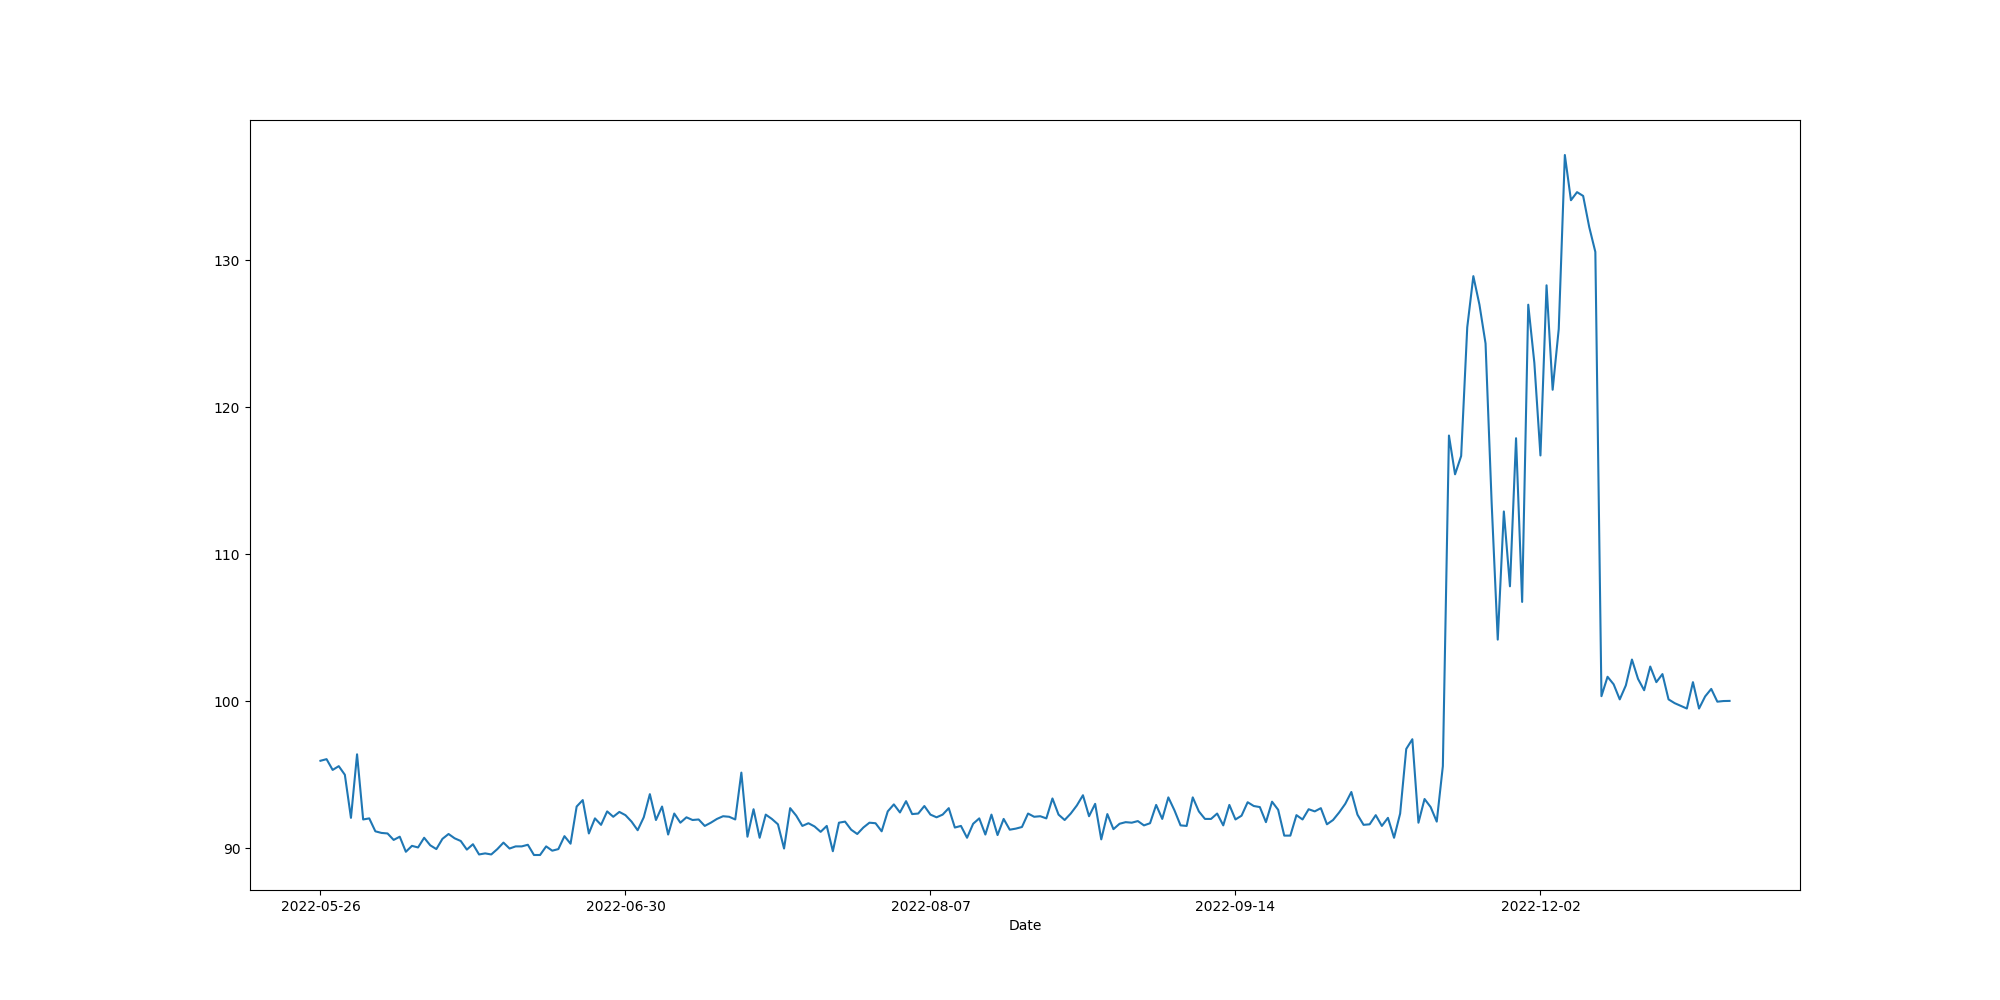
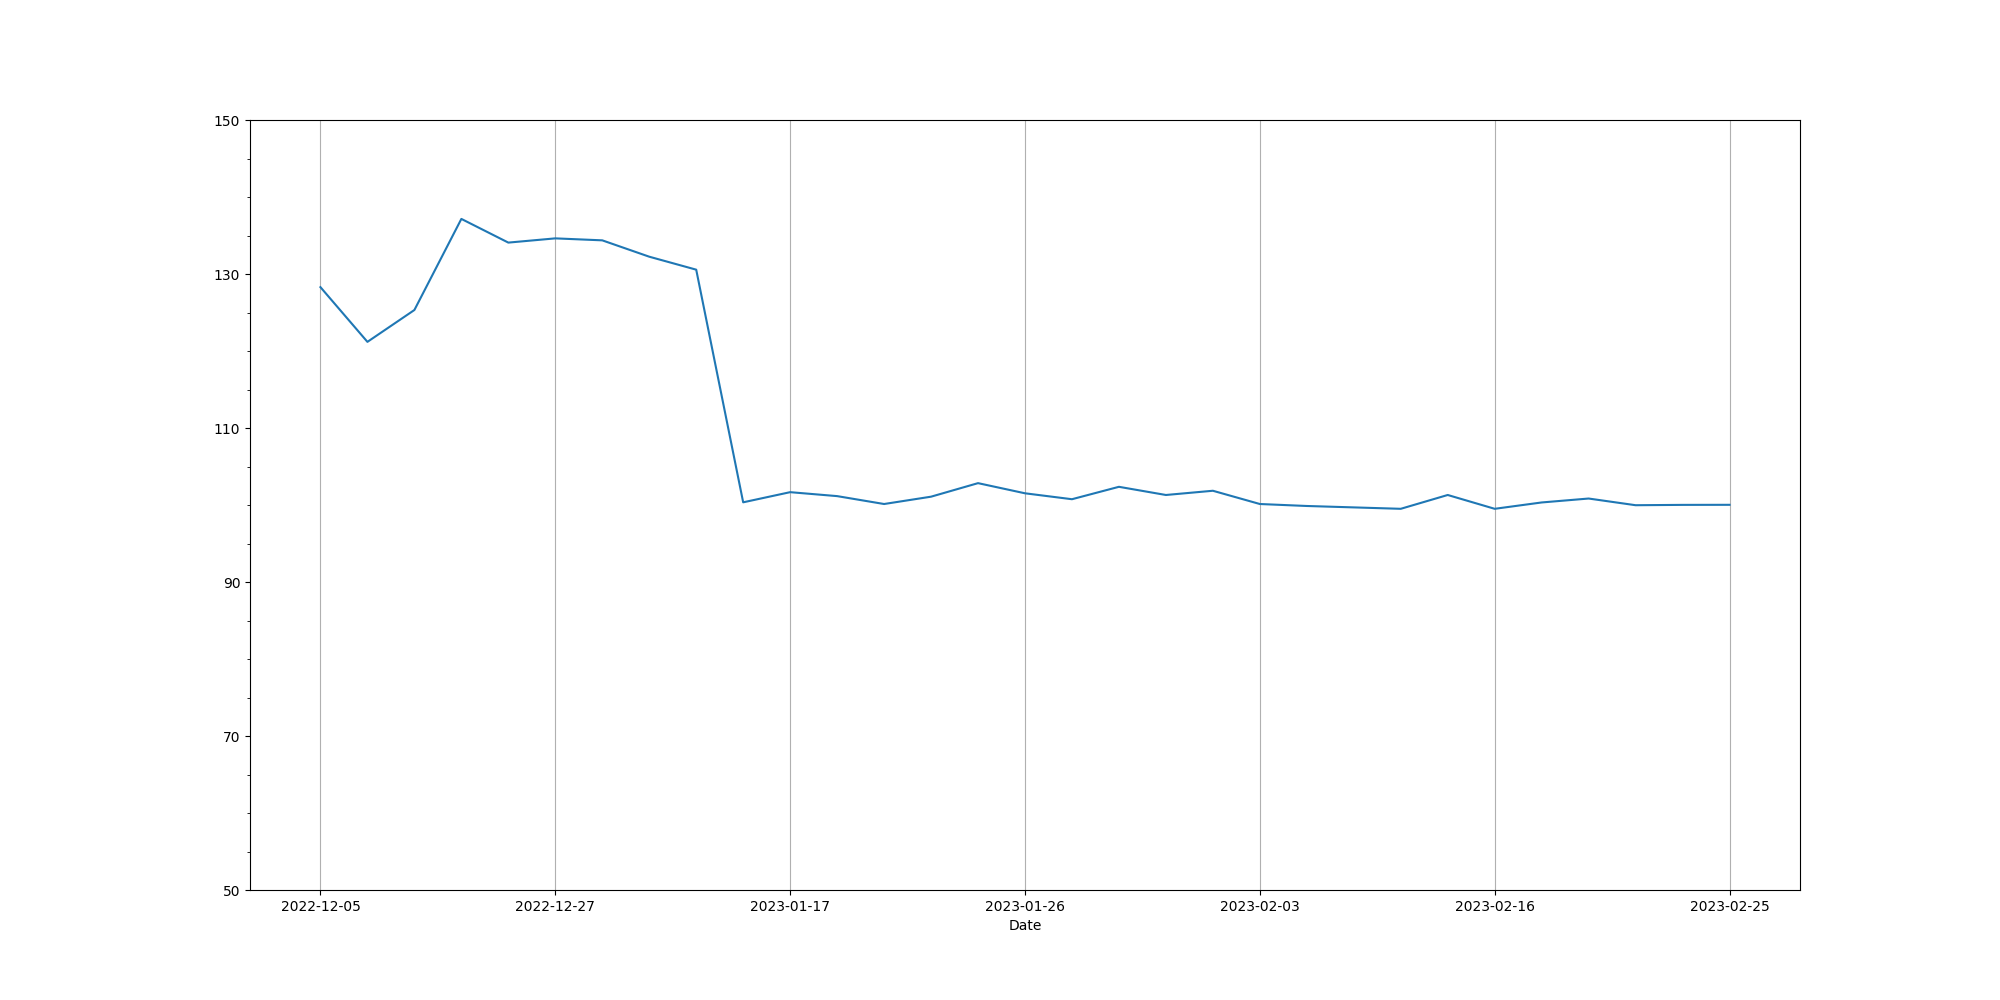
dataframe plot

diff --git a/Techs/data-science/pandas/plot/dataframe_plot.py b/Techs/data-science/pandas/plot/dataframe_plot.py
@@ -1,24 +1,29 @@
-import numpy as np
 import pandas as pd
-import matplotlib
-import matplotlib.pyplot as plt
+import numpy as np
 
-a = np.random.standard_normal((9, 4)).round(6)
-df = pd.DataFrame(a)
+df = pd.read_csv("ex_plot.csv", index_col=0)
+df = df.sort_values(by=['Date'])
+df = df.set_index('Date')
+composite_index_df = df['C&P Composite Index'].tail(31)
+#print(df)
+#fig = df['C&P Composite Index'].plot(figsize=(20, 10)).get_figure()
+ax = composite_index_df.plot(figsize=(20, 10))
 
-df.columns = ['No1', 'No2', 'No3', 'No4'] # 更改列名。
-dates = pd.date_range('2015-1-1', periods=9, freq='M')
-df.index = dates
-print(df)
+# Y轴的grid：Major ticks every 20, minor ticks every 5
+major_ticks = np.arange(50, 151, 20)
+minor_ticks = np.arange(50, 151, 5)
+ax.set_yticks(major_ticks)
+ax.set_yticks(minor_ticks, minor=True)
 
-df.describe()
+# X轴的grid：
+x_ticks = np.arange(0, 31, 5)
+x_ticks_labels = [list(composite_index_df.index)[x] for x in x_ticks]
+ax.set_xticks(x_ticks)
+ax.set_xticklabels(x_ticks_labels)
 
-#%matplotlib inline # IPYTHON里面的魔法函数，此处不可用。
-df.cumsum().plot(lw=2.0)
+ax.grid(which='both')
+ax.grid(which='minor', alpha=0.2)
+ax.grid(which='major', alpha=0.5)
 
-# 为No1列绘图
-df['No1'].cumsum().plot(style='r', lw=2.)
-plt.xlabel('date')
-plt.ylabel('value')
-
-plt.show()
+fig = ax.get_figure()
+fig.savefig('ex_plot.png')

diff --git a/Techs/data-science/pandas/plot/README.md b/Techs/data-science/pandas/plot/README.md
@@ -24,6 +24,25 @@ DataFrame.plot(x=None, y=None, kind='line', ax=None, subplots=False, sharex=None
 等单独的子函数。
 
 
+## “plt”, “ax”和“fig”
+
+“plt”来自于`import matplotlib.pyplot as plt`，它就是`matplotlib`模块中`pyplot`的简称。
+
+在现实生活中，绘制图形时通常是在图形的载体（比如一张纸）中绘制具体的图形，那么“fig”就是幕布，相当于纸张，而`ax`则是图形对应的坐标轴。
+
+明白了它们之间的大致区别之后，就能够理解下面两句代码的含义了：
+
+```
+fig = df['C&P Composite Index'].plot(figsize=(20, 10)).get_figure()
+ax  = df['C&P Composite Index'].plot(figsize=(20, 10)) 
+```
+
+参考：
+
+- [What Are the “plt” and “ax” in Matplotlib Exactly?](https://towardsdatascience.com/what-are-the-plt-and-ax-in-matplotlib-exactly-d2cf4bf164a9)
+- [Matplotlib中的“plt”和“ax”到底是什么?](https://zhuanlan.zhihu.com/p/221861683)
+
+
 ## 设置第二坐标
 
 ```
@@ -57,11 +76,39 @@ fig.savefig('test.png')
 使用其中的`title`参数。
 
 
-## Matplotlib中的“plt”和“ax”到底是什么?
+
+
+## 设置 grid
+
+可以对网格线进行定义，比如最基本的样式、间隔。
+
+```
+# Major ticks every 20, minor ticks every 5
+major_ticks = np.arange(0, 101, 20)
+minor_ticks = np.arange(0, 101, 5)
+
+ax.set_xticks(major_ticks)
+ax.set_xticks(minor_ticks, minor=True)
+
+# And a corresponding grid
+ax.grid(which='both')
+
+# Or if you want different settings for the grids:
+ax.grid(which='minor', alpha=0.2)
+ax.grid(which='major', alpha=0.5)
+```
+
+测试的时候上面的代码在一个环境里面可行，但是另一个环境里面设置的major的网格线可以正常显示，但是minor显示不出来，之后用在[Pandas: How to display minor grid lines on x-axis in pd.DataFrame.plot()](https://stackoverflow.com/questions/20616754/pandas-how-to-display-minor-grid-lines-on-x-axis-in-pd-dataframe-plot)看到的如下代码才能正常显示：
+
+```
+ax.grid('on', which='minor', alpha=0.2)
+ax.grid('on', which='major', alpha=0.5)
+```
+
+这是因为最新的版本里面配置网格线的`Axes.grid()`函数新增了`visible=None`参数，默认不展示。
 
 参考：
 
-- [What Are the “plt” and “ax” in Matplotlib Exactly?](https://towardsdatascience.com/what-are-the-plt-and-ax-in-matplotlib-exactly-d2cf4bf164a9)
-- [Matplotlib中的“plt”和“ax”到底是什么?](https://zhuanlan.zhihu.com/p/221861683)
-
-
+- [Change grid interval and specify tick labels in Matplotlib](https://stackoverflow.com/questions/24943991/change-grid-interval-and-specify-tick-labels-in-matplotlib)
+- [Pandas: How to display minor grid lines on x-axis in pd.DataFrame.plot()](https://stackoverflow.com/questions/20616754/pandas-how-to-display-minor-grid-lines-on-x-axis-in-pd-dataframe-plot)
+- [matplotlib.axes.Axes.grid](https://matplotlib.org/stable/api/_as_gen/matplotlib.axes.Axes.grid.html#matplotlib-axes-axes-grid)

diff --git a/Techs/data-science/pandas/plot/x_axis/README.md b/Techs/data-science/pandas/plot/x_axis/README.md
@@ -1,6 +1,25 @@
-## x轴显示问题
+## 如何调整横坐标样式以显示更多项目
 
-### 使用df.plot函数只显示x lable但是不显示ticks
+如下图，怎么调整横坐标标签显示样式，支持更多的显示。
+
+![](low_x_item_number.png)
+
+```
+asset_plot = self.asset_df.plot()
+asset_plot.set_xticks(range(len(self.asset_df.index)))
+asset_plot.set_xticklabels(self.asset_df.index, rotation=90)
+plt.show()
+```
+
+通过`set_xticks`设定所有的tick数，另外通过`set_xticklabels`设定标签的显示样式。
+
+参考：
+
+- [How to plot a pandas multiindex dataFrame with all xticks](https://stackoverflow.com/questions/21281322/how-to-plot-a-pandas-multiindex-dataframe-with-all-xticks)
+- [Matplotlib:: Not Showing all x-axis data frame variable](https://stackoverflow.com/questions/32572419/matplotlib-not-showing-all-x-axis-data-frame-variable?rq=1)
+
+
+## 使用df.plot函数只显示x lable但是不显示ticks
 
 *注：这个例子是在聚宽上进行的，我在本地测试没有这个问题。*
 
@@ -74,22 +93,3 @@ plt.subplots_adjust(wspace=0.6, hspace=0.6, left=0.1, bottom=0.22, right=0.96, t
 ](https://stackoverflow.com/questions/29767386/xlabel-and-ylabel-out-of-plot-region-cannot-show-completely-in-the-figure)
 - [How do you change the size of figures drawn with matplotlib?](https://stackoverflow.com/questions/332289/how-do-you-change-the-size-of-figures-drawn-with-matplotlib)
 
-### 如何调整横坐标样式以显示更多项目
-
-如下图，怎么调整横坐标标签显示样式，支持更多的显示。
-
-![](low_x_item_number.png)
-
-```
-asset_plot = self.asset_df.plot()
-asset_plot.set_xticks(range(len(self.asset_df.index)))
-asset_plot.set_xticklabels(self.asset_df.index, rotation=90)
-plt.show()
-```
-
-通过`set_xticks`设定所有的tick数，另外通过`set_xticklabels`设定标签的显示样式。
-
-参考：
-
-- [How to plot a pandas multiindex dataFrame with all xticks](https://stackoverflow.com/questions/21281322/how-to-plot-a-pandas-multiindex-dataframe-with-all-xticks)
-- [Matplotlib:: Not Showing all x-axis data frame variable](https://stackoverflow.com/questions/32572419/matplotlib-not-showing-all-x-axis-data-frame-variable?rq=1)
